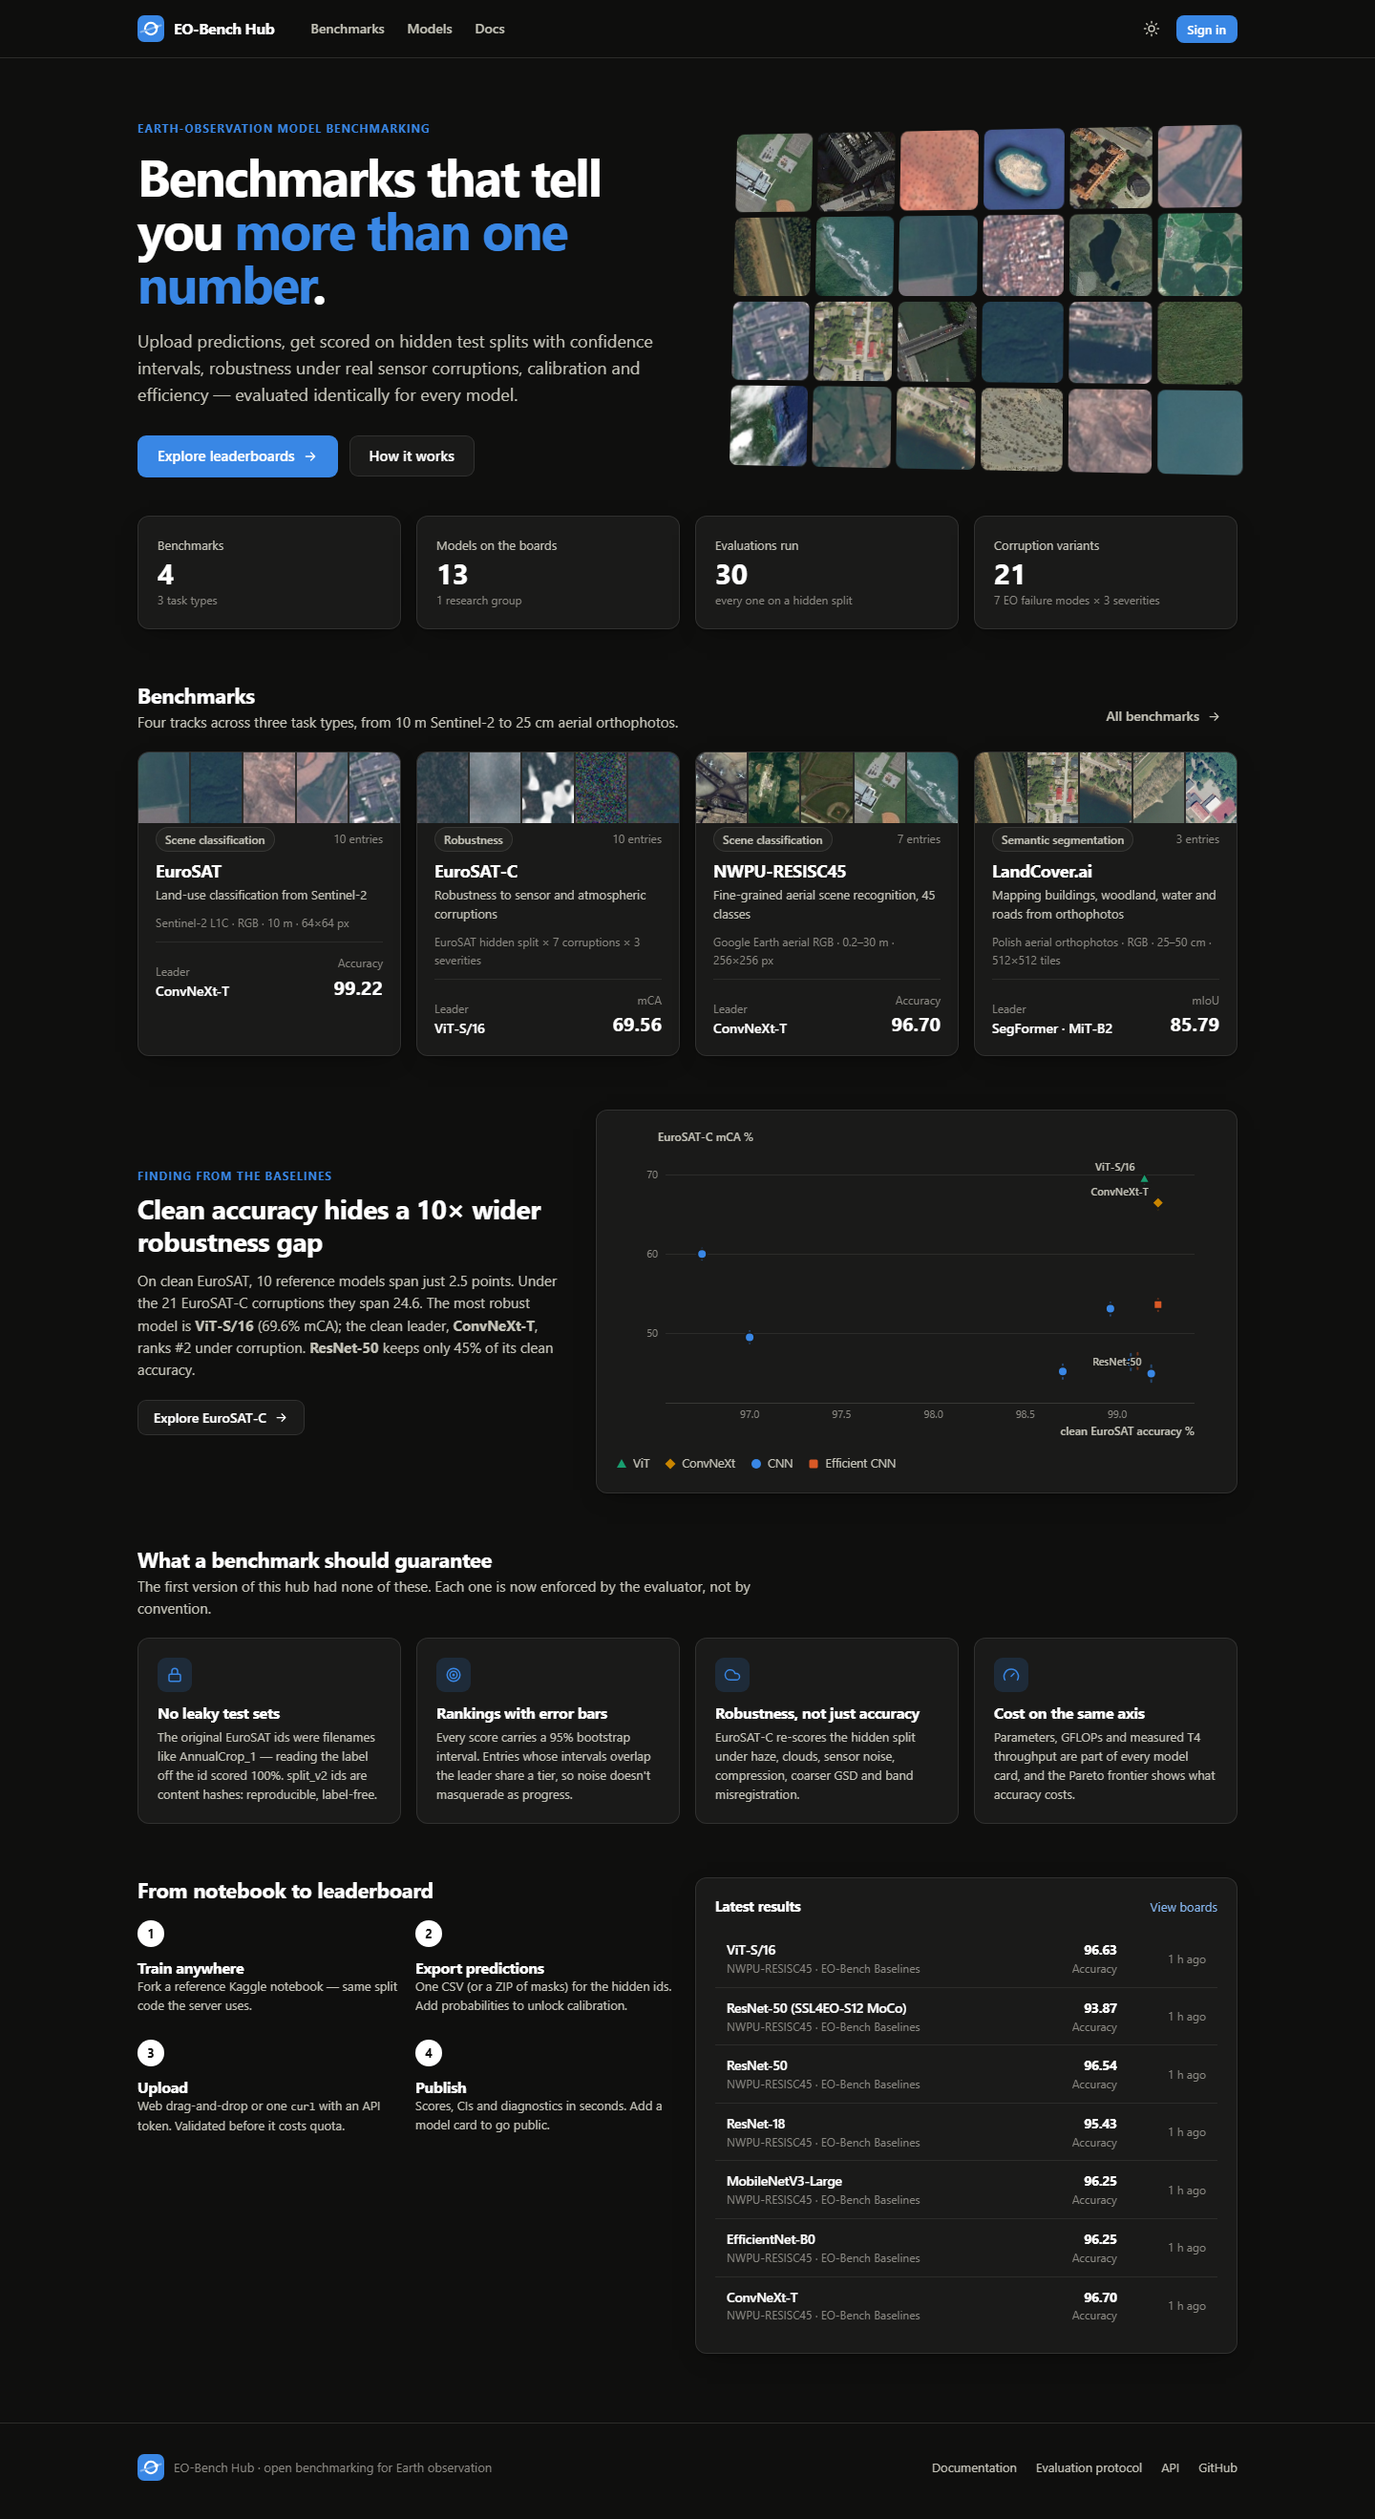
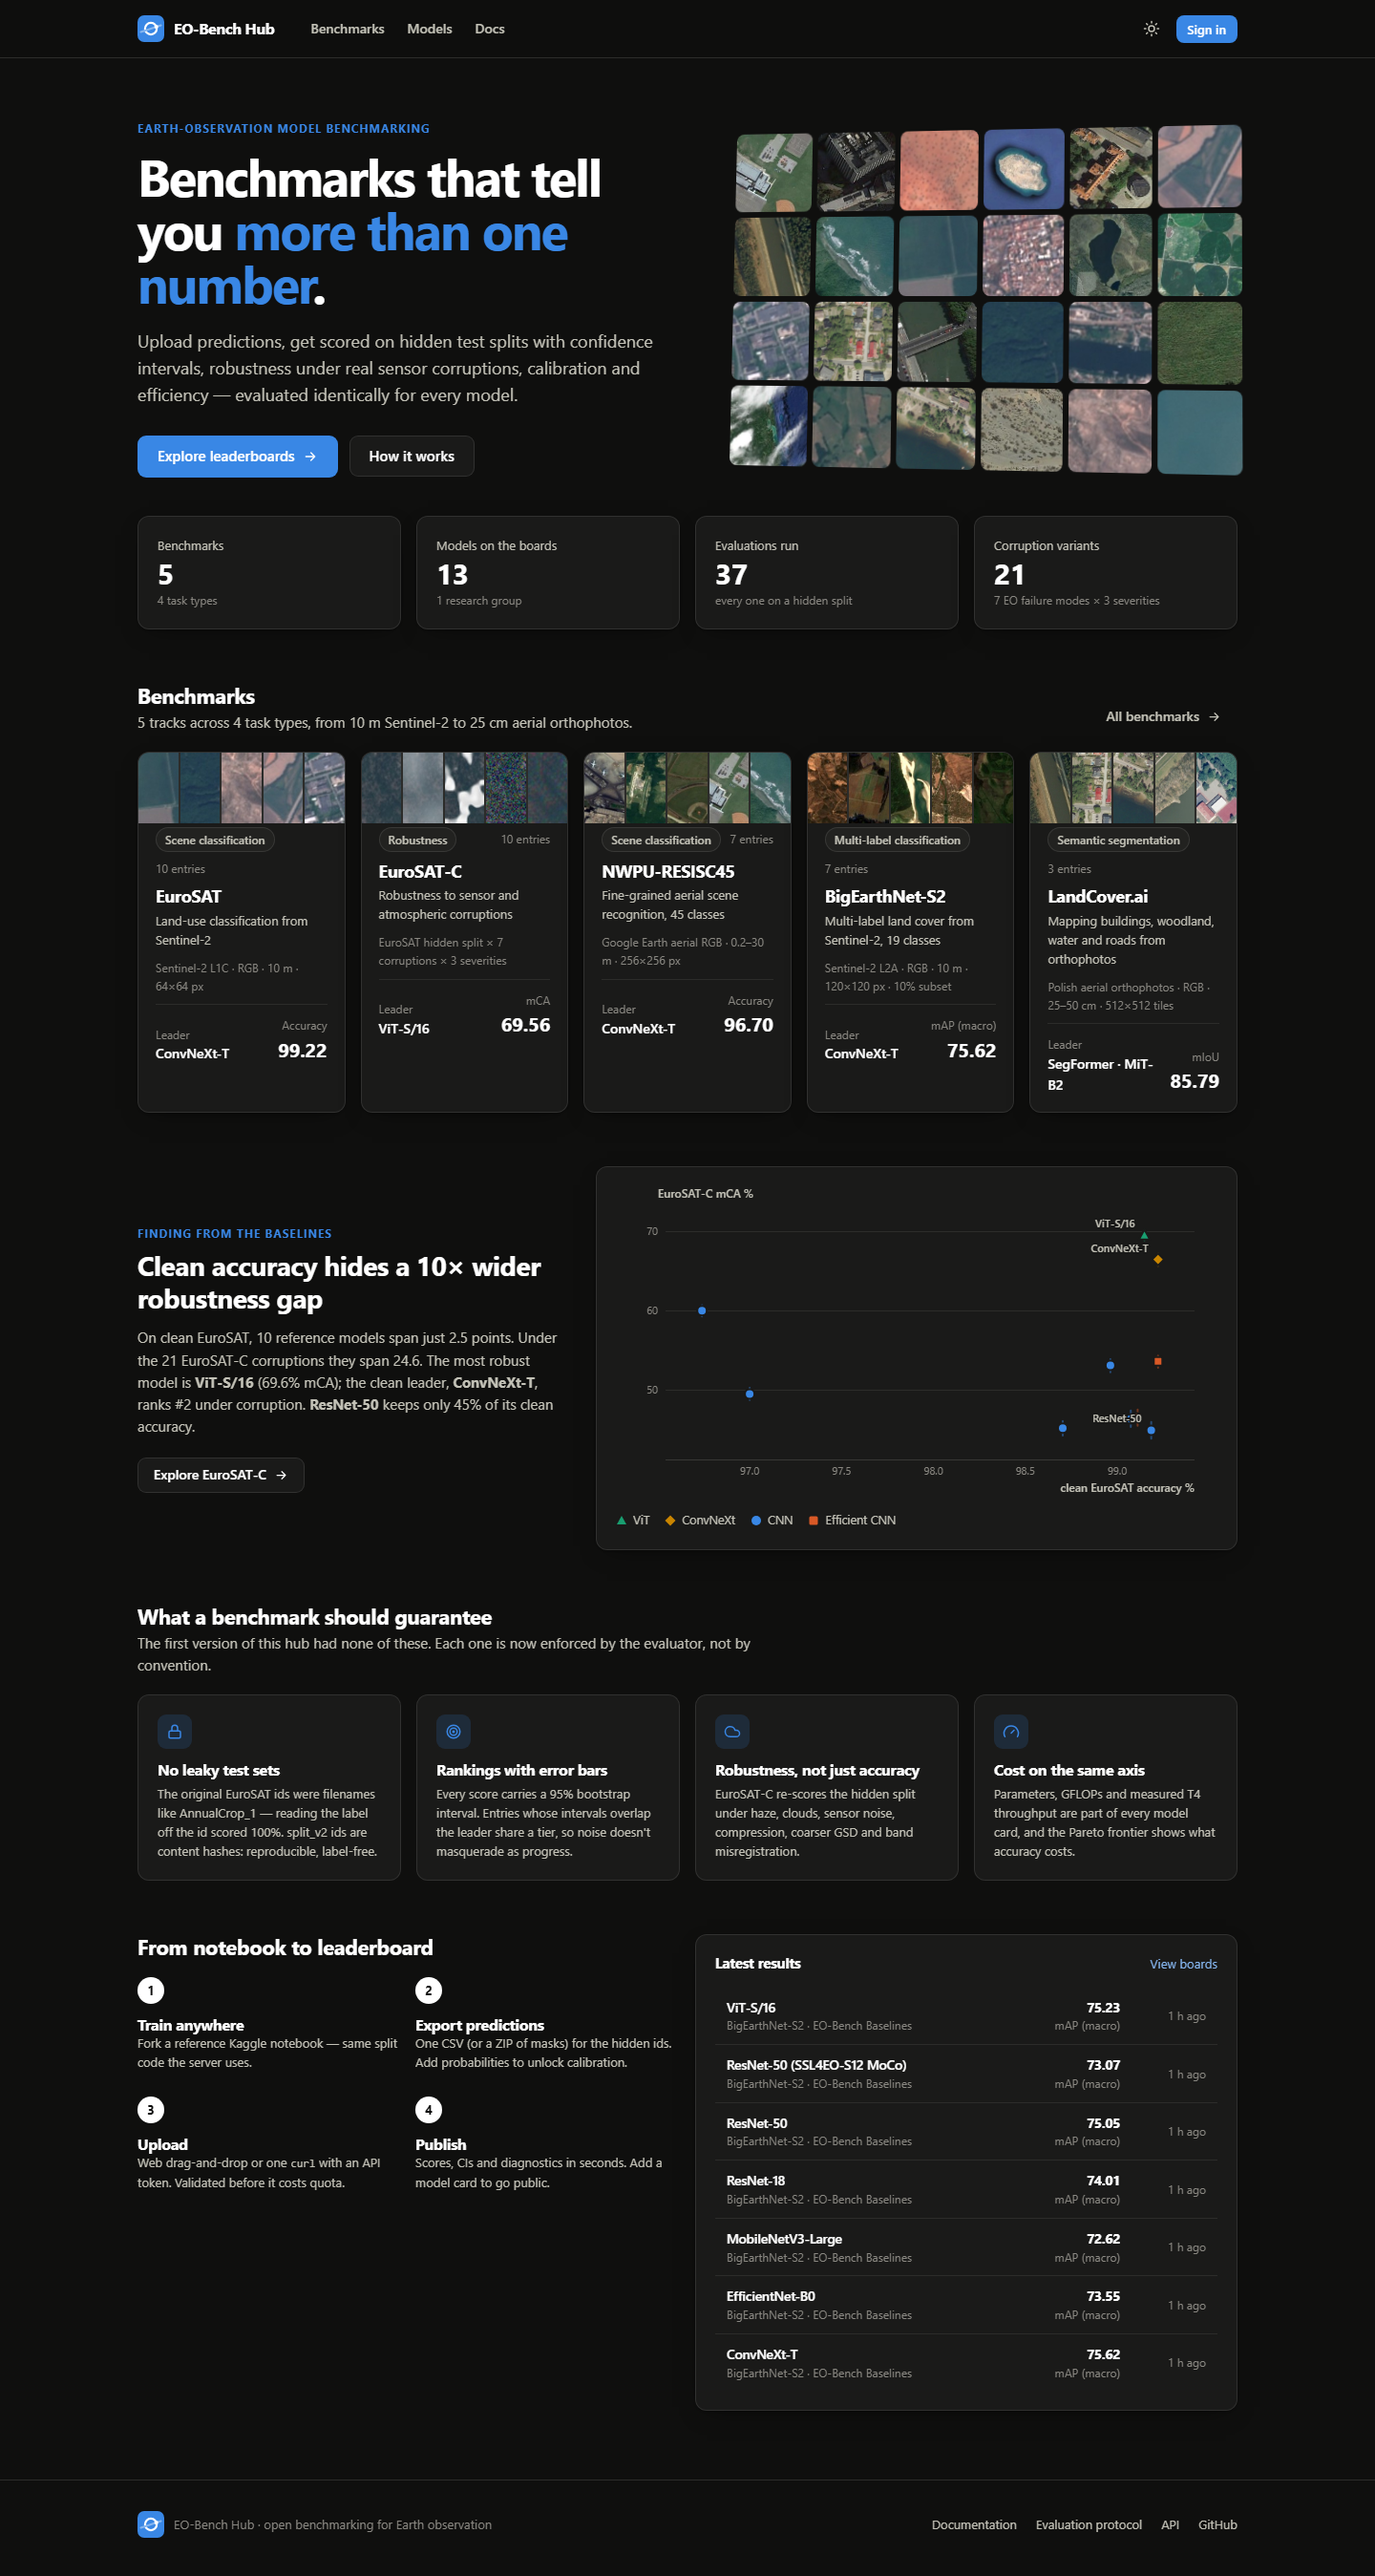
Docs: BigEarthNet results and findings, refreshed screenshots

diff --git a/README.md b/README.md
@@ -29,6 +29,7 @@ every model.
 | **EuroSAT** | Scene classification, 10 classes | Sentinel-2 RGB, 10 m, 64 px | Accuracy |
 | **EuroSAT-C** | Robustness: 7 EO corruptions × 3 severities | EuroSAT hidden split | Mean corruption accuracy |
 | **NWPU-RESISC45** | Scene classification, 45 classes | Aerial RGB, 0.2–30 m, 256 px | Accuracy |
+| **BigEarthNet-S2** | Multi-label classification, 19 classes | Sentinel-2 RGB, 10 m, 120 px (10% of reBEN) | Macro mAP |
 | **LandCover.ai** | Semantic segmentation, 5 classes | Aerial orthophotos, 25–50 cm | mIoU |
 
 ## Results from the reference models
@@ -40,19 +41,22 @@ Every number below comes from the hub's evaluators on the hidden split. Brackets
 | EuroSAT (accuracy) | ConvNeXt-T | **99.22** [98.85, 99.52] | EfficientNet-B0 99.22 (T1) | 8 of 10 models tied in T1 |
 | EuroSAT-C (mCA) | ViT-S/16 | **69.56** [68.86, 70.19] | ConvNeXt-T 66.48 | 44.9 – 69.6 |
 | NWPU-RESISC45 (accuracy) | ConvNeXt-T | **96.70** [96.06, 97.30] | ViT-S/16 96.63 (T1) | 93.9 – 96.7 |
+| BigEarthNet-S2 (macro mAP) | ConvNeXt-T | **75.62** [74.50, 76.81] | ViT-S/16 75.23 (T1) | 72.6 – 75.6 |
 | LandCover.ai (mIoU) | SegFormer · MiT-B2 | **85.79** [84.93, 86.52] | U-Net · ResNet-34 83.45 | 83.3 – 85.8 |
 
 What the baselines show:
 
 - **Clean accuracy hides robustness.** The eight ImageNet- and SSL4EO-pretrained EuroSAT models are statistically tied within about half a point. Under EuroSAT-C they spread over 25 points: ViT-S/16 keeps 70% of its accuracy, ResNet-50 keeps 45%. A single pixel of band misregistration drops MobileNetV3 and ResNet-50 to about a third, while ViT and ConvNeXt hold above 80%.
-- **Domain pretraining is not free.** SSL4EO-S12 (Sentinel-2 self-supervised) weights are tied with ImageNet on EuroSAT but lose 2.7 points on 0.2–30 m aerial RESISC45. On EuroSAT their input normalization matters a lot: with ImageNet statistics a frozen-feature kNN reaches 69.6%, with reflectance scaling 92.3%. The kernels choose this with a train/val probe.
+- **Domain pretraining is not free.** SSL4EO-S12 (Sentinel-2 self-supervised) weights are tied with ImageNet on EuroSAT, lose 2.7 points on 0.2–30 m aerial RESISC45, and even on in-domain Sentinel-2 BigEarthNet trail ImageNet ResNet-50 by 2 mAP points after fine-tuning. On EuroSAT their input normalization matters a lot: with ImageNet statistics a frozen-feature kNN reaches 69.6%, with reflectance scaling 92.3%. The kernels choose this with a train/val probe.
 - **Label smoothing shows up as miscalibration.** Every classifier trained with smoothing 0.1 has an ECE of about 9%, all under-confident. The reliability diagrams make this visible; accuracy alone hides it.
+- **Geographic splits are harder.** On BigEarthNet every model scores about 6 mAP points lower on the official test regions than on validation, a gap a random split would hide. Labels with only a handful of hidden positives are excluded from the macro average (their AP swings from 7 to 42 across near-identical models).
 - **Thin structures are the hard part of segmentation.** Roads (64–69 IoU) and buildings (76–81 IoU) separate the models; woodland and water are near-solved.
 
 
 Training notebooks (public, one per benchmark):
 [EuroSAT + EuroSAT-C](https://www.kaggle.com/code/mohameddddt/eobench-eurosat) ·
 [RESISC45](https://www.kaggle.com/code/mohameddddt/eobench-resisc45) ·
+[BigEarthNet](https://www.kaggle.com/code/mohameddddt/eobench-bigearthnet) ·
 [LandCover.ai](https://www.kaggle.com/code/mohameddddt/eobench-landcoverai)
 
 Each benchmark ships with a **model zoo trained on Kaggle T4 GPUs** using one
@@ -94,7 +98,7 @@ python scripts/import_kaggle.py eurosat     # installs ground truth, baselines, 
 python scripts/seed.py                      # scores the baselines
 ```
 
-Repeat for `resisc45` and `landcoverai`. Each kernel embeds the repo's own
+Repeat for `resisc45`, `bigearthnet` and `landcoverai`. Each kernel embeds the repo's own
 `eobench_eval` + `eobench_train` packages, so it always runs the code of the
 commit it was pushed from.
 
@@ -147,7 +151,7 @@ data/         ground truth, uploads, baselines — gitignored
 ## Development
 
 ```bash
-make test     # 44 tests: evaluators, splits, corruptions, bootstrap maths, full API flow
+make test     # 47 tests: evaluators, splits, corruptions, bootstrap maths, full API flow
 make lint     # ruff
 cd frontend && npm run typecheck
 ```
@@ -158,7 +162,6 @@ The v1 EuroSAT golden file must keep scoring exactly 0.975926 accuracy and
 
 ## Roadmap
 
-- BigEarthNet multi-label: the evaluator is done and tested; a subset that fits on Kaggle is still needed.
 - Seed-variance runs for baselines, so CIs can cover training noise as well as test-set noise.
 
 ## License and data
@@ -166,6 +169,7 @@ The v1 EuroSAT golden file must keep scoring exactly 0.975926 accuracy and
 Code is released under the [MIT License](LICENSE). The datasets keep their own
 licences and are never redistributed — only small thumbnails, public split
 manifests (ids and splits, no labels) and aggregate scores are included:
-EuroSAT (MIT), NWPU-RESISC45 (research use), LandCover.ai (CC BY-NC-SA 4.0).
+EuroSAT (MIT), NWPU-RESISC45 (research use), BigEarthNet (CDLA-Permissive-1.0),
+LandCover.ai (CC BY-NC-SA 4.0).
 Please cite the original dataset papers listed on each benchmark page.
 

diff --git a/ASSESSMENT.md b/ASSESSMENT.md
@@ -44,7 +44,7 @@ v1 had one benchmark with data (EuroSAT), one model (ResNet-18), and an empty
 leaderboard until someone uploaded a file. BigEarthNet was registered but
 inactive: no ground truth, and its notebook needed a 59 GB download.
 
-**v2:** four benchmarks across three task types, each with a model zoo trained on
+**v2:** five benchmarks across four task types, each with a model zoo trained on
 Kaggle T4 GPUs using one documented recipe per benchmark (`training/`):
 
 | Benchmark | Task | Models |
@@ -52,6 +52,7 @@ Kaggle T4 GPUs using one documented recipe per benchmark (`training/`):
 | EuroSAT | scene classification, 10 classes | 10 (scratch CNN → ConvNeXt-T, ImageNet vs SSL4EO-S12 pretraining) |
 | EuroSAT-C *(new)* | robustness, 7 corruptions × 3 severities | same 10 |
 | NWPU-RESISC45 *(new)* | scene classification, 45 classes | 7 |
+| BigEarthNet-S2 *(now live)* | multi-label classification, 19 classes | 7 (10% RGB subset streamed from the 63 GB archive on Kaggle) |
 | LandCover.ai *(new)* | semantic segmentation, 5 classes | 3 (U-Net, DeepLabV3+, SegFormer) |
 
 Every baseline goes through the same upload → validate → evaluate path as a
@@ -76,11 +77,11 @@ user's file. No number on the site is hand-entered.
 - Inline mode re-queues unfinished jobs after a restart.
 - Evaluator crashes are no longer retried three times; they are deterministic.
 - Tracebacks are only shown to the submission's owner and maintainers.
-- The test suite grew from 8 to 44 tests: evaluators, splits, corruptions, bootstrap maths, and the full API flow on SQLite. The frozen v1 golden score (0.975926 / 0.974783) still reproduces exactly under evaluator v0.2.0.
+- The test suite grew from 8 to 47 tests: evaluators, splits, corruptions, bootstrap maths, and the full API flow on SQLite. The frozen v1 golden score (0.975926 / 0.974783) still reproduces exactly under evaluator v0.2.0.
 
 ## Known limitations
 
 - Labels for public datasets can't be truly hidden (see 1). Integrity comes from protocol, transparency and verification.
 - Baselines use one shared recipe and a single seed each. The CIs cover test-set sampling noise, not training-seed variance.
 - RESISC45's licence is research-only. The hub never redistributes its images beyond small thumbnails, and it links to the source.
-- BigEarthNet's multi-label evaluator is implemented and tested, but the benchmark isn't seeded: its 59 GB archive doesn't fit the Kaggle workflow.
+- BigEarthNet uses a 10% RGB subset of reBEN, so its scores are not comparable to published full-dataset, multispectral results.

diff --git a/CONTRIBUTING.md b/CONTRIBUTING.md
@@ -14,7 +14,7 @@ cd frontend && npm install
 
 ```bash
 make lint                         # ruff
-make test                         # 44+ tests, no services needed
+make test                         # 47+ tests, no services needed
 cd frontend && npm run typecheck && npm run build
 ```
 
